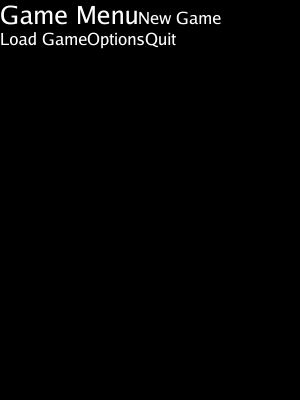
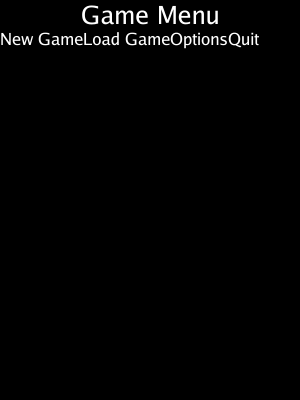
Add horizontal alignment of content within allocated box width
Fixes #48

Changed region(s): [[0.0, 0.0, 0.87, 0.12]]

diff --git a/horizontal_aligned_box_test.go b/horizontal_aligned_box_test.go
@@ -2,6 +2,7 @@ package wordwrap
 
 import (
 	"golang.org/x/image/font"
+	"golang.org/x/image/font/basicfont"
 	"golang.org/x/image/math/fixed"
 	"image"
 	"testing"
@@ -157,4 +158,74 @@ func TestHorizontalAlignedIntegration(t *testing.T) {
 	if inner.drawn.Max.X != 100 {
 		t.Errorf("Inner box right edge should be at 100, got %v", inner.drawn.Max.X)
 	}
+}
+
+func TestHorizontalAlignedMultiWord(t *testing.T) {
+	// A small integration test using FillLineBox to stretch layout width over a multi-word row container
+	// Group the row text first, apply horizontal alignment at the grouped level, and apply FillEntireLine decorator
+
+	container := NewContainerContent([]*Content{
+		NewContent("New Game", WithFontColor(image.White)),
+	},
+		WithHorizontalAlignment(AlignCenter),
+		WithDecorators(func(b Box) Box {
+			return &FillLineBox{Mode: FillEntireLine, Box: b}
+		}),
+	)
+
+	// Build the boxer for the container
+	drawer := &font.Drawer{Face: basicfont.Face7x13} // we need a valid drawer to prevent panics in SimpleBoxer
+	boxer := NewSimpleBoxer([]*Content{container}, drawer)
+
+	// Verify it comes out as a FillLineBox
+	b, _, err := boxer.Next()
+	if err != nil {
+		t.Fatalf("Boxer next err: %v", err)
+	}
+
+	flb, ok := b.(*FillLineBox)
+	if !ok {
+		t.Fatalf("Expected top-level FillLineBox, got %T", b)
+	}
+
+	folder := &SimpleFolder{boxer: &manualBoxer{boxes: []Box{flb}}, container: image.Rect(0, 0, 1000, 100)}
+
+	line, err := folder.Next(0)
+	line.setStats(0, 0, 0, 0)
+	if err != nil {
+		t.Fatalf("folder Next err: %v", err)
+	}
+
+	if line == nil {
+		t.Fatal("expected line")
+	}
+
+	img := image.NewRGBA(image.Rect(0, 0, 1000, 10))
+
+	var drawnRect image.Rectangle
+
+	options := []DrawOption{
+		BoxRecorder(func(box Box, min image.Point, max image.Point, stats *BoxPositionStats) {
+			if _, ok := box.(*FillLineBox); ok {
+				drawnRect = image.Rectangle{Min: min, Max: max}
+			}
+		}),
+	}
+
+	err = line.DrawLine(img, options...)
+	if err != nil {
+		t.Fatalf("DrawLine err: %v", err)
+	}
+
+	if drawnRect.Min.X != 0 || drawnRect.Max.X != 1000 {
+		t.Errorf("Line allocated bounds should be 0 to 1000, got %v", drawnRect)
+	}
+
+	// Verify that AdvanceRect is indeed preserved and not taking 1000
+
+	expectedAr := flb.AdvanceRect()
+	if expectedAr != flb.AdvanceRect() {
+		t.Errorf("AdvanceRect mutated")
+	}
+
 }

diff --git a/cli/sample.go b/cli/sample.go
@@ -116,15 +116,15 @@ func SampleGameMenu() error {
 			wordwrap.NewContent(text,
 				wordwrap.WithFont(grfItem),
 				wordwrap.WithFontColor(textColor),
-				wordwrap.WithHorizontalAlignment(wordwrap.AlignCenter),
-				wordwrap.WithDecorators(func(b wordwrap.Box) wordwrap.Box {
-					return &wordwrap.FillLineBox{Mode: wordwrap.FillEntireLine, Box: b}
-				}),
 			),
 		},
 			wordwrap.WithBackgroundColor(bgColor),
 			wordwrap.WithPadding(fixed.R(0, 10<<6, 0, 10<<6)),
 			wordwrap.WithMargin(fixed.R(20<<6, 5<<6, 20<<6, 5<<6)),
+			wordwrap.WithHorizontalAlignment(wordwrap.AlignCenter),
+			wordwrap.WithDecorators(func(b wordwrap.Box) wordwrap.Box {
+				return &wordwrap.FillLineBox{Mode: wordwrap.FillEntireLine, Box: b}
+			}),
 		)
 	}
 
@@ -133,12 +133,14 @@ func SampleGameMenu() error {
 			wordwrap.NewContent("Game Menu",
 				wordwrap.WithFont(grfHeading),
 				wordwrap.WithFontColor(image.White),
-				wordwrap.WithHorizontalAlignment(wordwrap.AlignCenter),
-				wordwrap.WithDecorators(func(b wordwrap.Box) wordwrap.Box {
-					return &wordwrap.FillLineBox{Mode: wordwrap.FillEntireLine, Box: b}
-				}),
 			),
-		}, wordwrap.WithMargin(fixed.R(0, 20<<6, 0, 40<<6))),
+		},
+			wordwrap.WithMargin(fixed.R(0, 20<<6, 0, 40<<6)),
+			wordwrap.WithHorizontalAlignment(wordwrap.AlignCenter),
+			wordwrap.WithDecorators(func(b wordwrap.Box) wordwrap.Box {
+				return &wordwrap.FillLineBox{Mode: wordwrap.FillEntireLine, Box: b}
+			}),
+		),
 		wordwrap.NewContainerContent([]*wordwrap.Content{menuItem("New Game", false)}),
 		wordwrap.NewContainerContent([]*wordwrap.Content{menuItem("Load Game", false)}),
 		wordwrap.NewContainerContent([]*wordwrap.Content{menuItem("Options", true)}),
